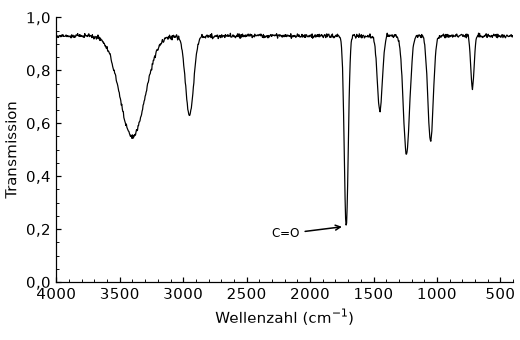
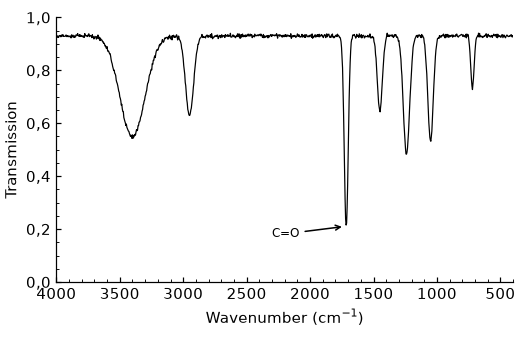
Break an axis from the outline too, and an English label in the IR example

Changed region(s): [[0.4, 0.9118, 0.7077, 0.9706]]

diff --git a/src/figscribe/gui/outline.py b/src/figscribe/gui/outline.py
@@ -26,6 +26,7 @@ from PySide6.QtWidgets import (
 from figscribe.commands import CommandError, SetField, drawing_order, find, to_front
 from figscribe.gui import theme
 from figscribe.gui.axisform import AXIS_TITLES, axis_summary, plain, unit_shown
+from figscribe.gui.breaks import break_entries
 from figscribe.gui.document import Document, axis_id, split_axis
 from figscribe.gui.figures import fill_figure_menu
 from figscribe.gui.markings import ENTRIES
@@ -61,6 +62,8 @@ class Outline(QTreeWidget):
     delete_requested = Signal(str)
     note_requested = Signal(str)
     same_range_requested = Signal(str, str)
+    breaks_requested = Signal(str, str, object)
+    """(panel id, "x" or "y", the breaks to give that axis)."""
     """Give every panel the range this panel shows on an axis: (panel id,
     "x" or "y")."""
     reveal_requested = Signal(str)
@@ -299,6 +302,7 @@ class Outline(QTreeWidget):
                         lambda f=field: self.same_range_requested.emit(oid, f),
                     )
                     action.setEnabled(others)
+            self._break_entries(menu, oid, ("x", "y"))
             menu.addSeparator()
             menu.addAction("Delete panel", lambda: self.delete_requested.emit(oid))
         elif isinstance(obj, Figure):
@@ -331,21 +335,34 @@ class Outline(QTreeWidget):
         return menu
 
     def _axis_menu(self, axes_id: str, field: str) -> QMenu | None:
-        """What can be done with one axis: give every panel its range. Nothing
-        for the right y axis or an inset, which `same_range` leaves alone."""
+        """What can be done with one axis: give every panel its range, which
+        `same_range` does not for insets, and break it. Nothing for the right
+        y axis."""
         try:
             axes = find(self.document.project, axes_id)
         except CommandError:
             return None
-        if field == "y_right" or axes.inset is not None:
+        if field == "y_right":
             return None
         menu = QMenu(self)
-        action = menu.addAction(
-            f"Same {field} range in all panels",
-            lambda: self.same_range_requested.emit(axes_id, field),
-        )
-        action.setEnabled(self._other_panels(axes))
-        return menu
+        if axes.inset is None:
+            action = menu.addAction(
+                f"Same {field} range in all panels",
+                lambda: self.same_range_requested.emit(axes_id, field),
+            )
+            action.setEnabled(self._other_panels(axes))
+        self._break_entries(menu, axes_id, (field,))
+        return menu if menu.actions() else None
+
+    def _break_entries(self, menu: QMenu, axes_id: str, fields: tuple) -> None:
+        entries = break_entries(self.document, axes_id, fields)
+        if entries and menu.actions():
+            menu.addSeparator()
+        for text, field, breaks in entries:
+            menu.addAction(
+                text,
+                lambda f=field, b=breaks: self.breaks_requested.emit(axes_id, f, b),
+            )
 
     def _other_panels(self, axes: Axes) -> bool:
         """Whether the figure of `axes` has another panel in its grid."""

diff --git a/src/figscribe/gui/preview.py b/src/figscribe/gui/preview.py
@@ -61,7 +61,7 @@ from figscribe.commands import (
 )
 from figscribe.fit import FitError, set_left_out
 from figscribe.gui import theme
-from figscribe.gui.breaks import current_breaks, panel_index, proposed_break
+from figscribe.gui.breaks import break_entries
 from figscribe.gui.document import Document, axis_id, split_axis
 from figscribe.gui.errors import explain
 from figscribe.gui.inplace import Editable, open_editor
@@ -78,7 +78,7 @@ from figscribe.gui.resize import (
     ratios,
 )
 from figscribe.model import Annotation
-from figscribe.model.breaks import breaks_blocked, effective_breaks
+from figscribe.model.breaks import effective_breaks
 from figscribe.model.validate import FIT_TARGETS
 from figscribe.render import render
 from figscribe.render.figure import MM_PER_INCH, RIGHT, style_context
@@ -968,39 +968,18 @@ class Preview(QWidget):
         """Cut an empty stretch of the data out of an axis of the panel `ax`,
         the one clicked in if the click is in one, or take its breaks out."""
         axes_id = ax.get_gid()
-        index = panel_index(self.document, axes_id)
-        if index is None:
-            return
         spot = ax.transData.inverted().transform(self._to_display(point))
-        first = True
-        for field, at in zip(("x", "y"), spot, strict=True):
-            entries = []
-            if breaks_blocked(self.document.figure, index, field) is None:
-                found = proposed_break(self.document, axes_id, field, float(at))
-                if found is not None:
-                    start, end = found
-                    entries.append(
-                        (
-                            f"Break the {field} axis (cut out {start:g} to {end:g})",
-                            sorted(
-                                [
-                                    *current_breaks(self.document, axes_id, field),
-                                    found,
-                                ]
-                            ),
-                        )
-                    )
-            if current_breaks(self.document, axes_id, field):
-                entries.append((f"Remove the breaks of the {field} axis", []))
-            for text, breaks in entries:
-                if first:
-                    menu.addSeparator()
-                    first = False
-                menu.addAction(
-                    text, lambda f=field, b=breaks: self._set_breaks(axes_id, f, b)
-                )
+        entries = break_entries(self.document, axes_id, spot=tuple(spot))
+        if entries:
+            menu.addSeparator()
+        for text, field, breaks in entries:
+            menu.addAction(
+                text,
+                lambda f=field, b=breaks: self.set_axis_breaks(axes_id, f, b),
+            )
 
-    def _set_breaks(self, axes_id: str, field: str, breaks: list) -> None:
+    def set_axis_breaks(self, axes_id: str, field: str, breaks: list) -> None:
+        """Give an axis these breaks, as a menu asks."""
         self.drop_view([a.id for a in self.document.figure.axes])
         try:
             self.document.push(

diff --git a/src/figscribe/gui/breaks.py b/src/figscribe/gui/breaks.py
@@ -7,7 +7,7 @@ import numpy as np
 from figscribe.convert import convert, plot_data
 from figscribe.gui.document import Document
 from figscribe.model import Histogram, ReferenceLine
-from figscribe.model.breaks import own_breaks
+from figscribe.model.breaks import breaks_blocked, own_breaks
 from figscribe.model.sharing import sharing_group
 from figscribe.model.validate import FITTABLE
 from figscribe.render.breaks import widest_gap
@@ -59,6 +59,33 @@ def axis_values(document: Document, axes_id: str, field: str) -> np.ndarray:
     if not found:
         return np.array([])
     return np.concatenate([np.asarray(v, dtype=float).ravel() for v in found])
+
+
+def break_entries(
+    document: Document,
+    axes_id: str,
+    fields: tuple[str, ...] = ("x", "y"),
+    spot: tuple[float, float] | None = None,
+) -> list[tuple[str, str, list]]:
+    """(menu text, field, breaks) for what a menu offers to do with the breaks
+    of a panel: cut an empty stretch of the data out of an axis, the one at
+    `spot`, (x, y), if it is in one, or take the axis's breaks out."""
+    index = panel_index(document, axes_id)
+    if index is None:
+        return []
+    entries = []
+    for field in fields:
+        breaks = current_breaks(document, axes_id, field)
+        if breaks_blocked(document.figure, index, field) is None:
+            at = None if spot is None else float(spot["xy".index(field)])
+            found = proposed_break(document, axes_id, field, at)
+            if found is not None:
+                start, end = found
+                text = f"Break the {field} axis (cut out {start:g} to {end:g})"
+                entries.append((text, field, sorted([*breaks, found])))
+        if breaks:
+            entries.append((f"Remove the breaks of the {field} axis", field, []))
+    return entries
 
 
 def proposed_break(

diff --git a/tests/gui/test_breaks_gui.py b/tests/gui/test_breaks_gui.py
@@ -244,3 +244,23 @@ def test_a_broken_axis_says_so_in_the_panel_summary(window) -> None:
     window.document.select(_axes(window).id)
     texts = [b.text() for b in window.properties.axis_links.values()]
     assert any("broken at 21 – 418" in t for t in texts), texts
+
+
+def _texts(menu) -> list[str]:
+    return [a.text() for a in menu.actions() if not a.isSeparator()]
+
+
+def test_the_outline_offers_to_break_a_panel_and_an_axis(window) -> None:
+    panel = _axes(window).id
+    entry = "Break the x axis (cut out 21 to 418)"
+    assert entry in _texts(window.outline.context_menu(panel))
+    menu = window.outline.context_menu(axis_id(panel, "x"))
+    assert entry in _texts(menu)
+    assert not [t for t in _texts(menu) if "the y axis" in t]
+    _entry(menu, "Break the x axis").trigger()
+    assert _axes(window).x.breaks == [(21.0, 418.0)]
+    assert window.preview._figure.axes[0].get_xscale() == "function"
+    _entry(
+        window.outline.context_menu(panel), "Remove the breaks of the x axis"
+    ).trigger()
+    assert _axes(window).x.breaks == []

diff --git a/src/figscribe/gui/mainwindow.py b/src/figscribe/gui/mainwindow.py
@@ -257,6 +257,9 @@ class MainWindow(QMainWindow):
             lambda oid, kind, orientation: self.add_marking(kind, orientation, oid)
         )
         self.outline.same_range_requested.connect(self.same_range)
+        self.outline.breaks_requested.connect(
+            lambda oid, field, breaks: self.preview.set_axis_breaks(oid, field, breaks)
+        )
         self.outline.reveal_requested.connect(self.reveal_source)
         self.contents_dock = self._dock(
             "Contents", _side_panel(self.outline), Qt.DockWidgetArea.LeftDockWidgetArea

diff --git a/examples/make.py b/examples/make.py
@@ -1001,7 +1001,7 @@ def ir_spectrum(folder: Path) -> Project:
         comment="Synthetic infrared spectrum",
     )
     panel = Axes(
-        x=axis("Wellenzahl", "cm$^{-1}$", limits=(400.0, 4000.0), inverted=True),
+        x=axis("Wavenumber", "cm$^{-1}$", limits=(400.0, 4000.0), inverted=True),
         y=axis(
             "Transmission",
             limits=(0.0, 1.0),

diff --git a/CHANGELOG.md b/CHANGELOG.md
@@ -9,9 +9,9 @@ release open in every later one.
   across it, and *An infrared spectrum*, wavenumbers from high to low with an
   open frame and a decimal comma (fourteen in all).
 - **Broken axes.** Cut a stretch out of an x or y axis, for a measurement far
-  from the rest: right-click the empty stretch in the preview, or use *Add a
-  break* in the axis form under *Scale*; several breaks are possible. The axis
-  gets a narrow gap with break marks, nothing is drawn in it, and no line runs
+  from the rest: right-click the empty stretch in the preview (or the panel in
+  the outline), or use *Add a break* in the axis form under *Scale*; several
+  breaks are possible. The axis gets a narrow gap with break marks, nothing is drawn in it, and no line runs
   across. Panels sharing the axis are broken alike. Linear axes only
   (decision 0072).
 - **Number format and decimal comma.** In the axis form, *Scale* has *Number

diff --git a/docs/decisions.md b/docs/decisions.md
@@ -3445,8 +3445,9 @@ temperature. Matplotlib has no broken axis.
 - Points, reference lines and ranges within a break are not shown, and the
   problem list says how many points. A note placed there is drawn.
 - In the GUI: *Scale* has a row per break and *Add a break*, which cuts the
-  widest empty stretch of the data; a right click in a panel offers the same;
-  the search finds it by "break", "gap", "skip".
+  widest empty stretch of the data; a right click in a panel, or on a panel or
+  axis in the outline, offers the same; the search finds it by "break", "gap",
+  "skip".
 
 ### Alternatives considered
 
